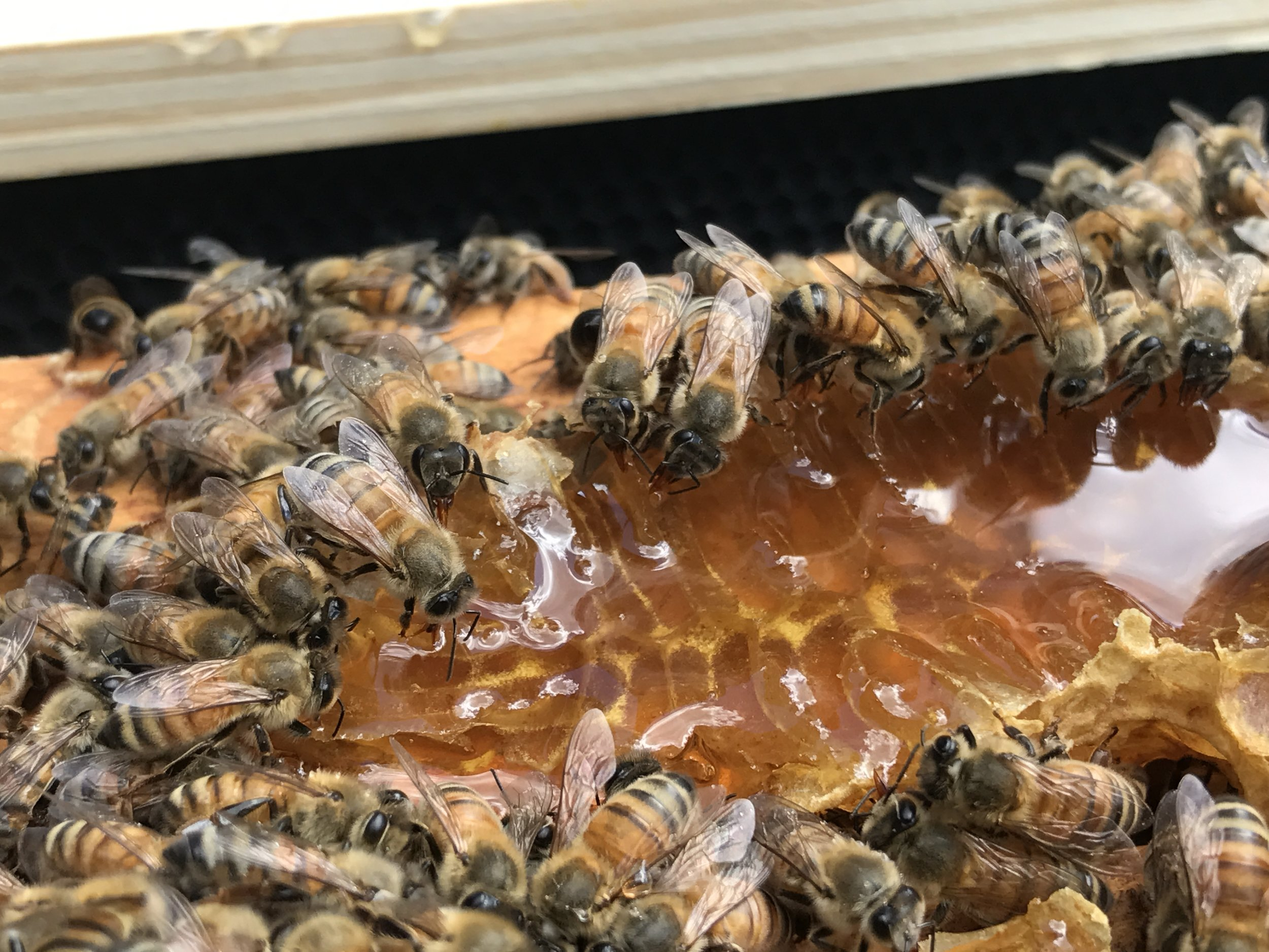
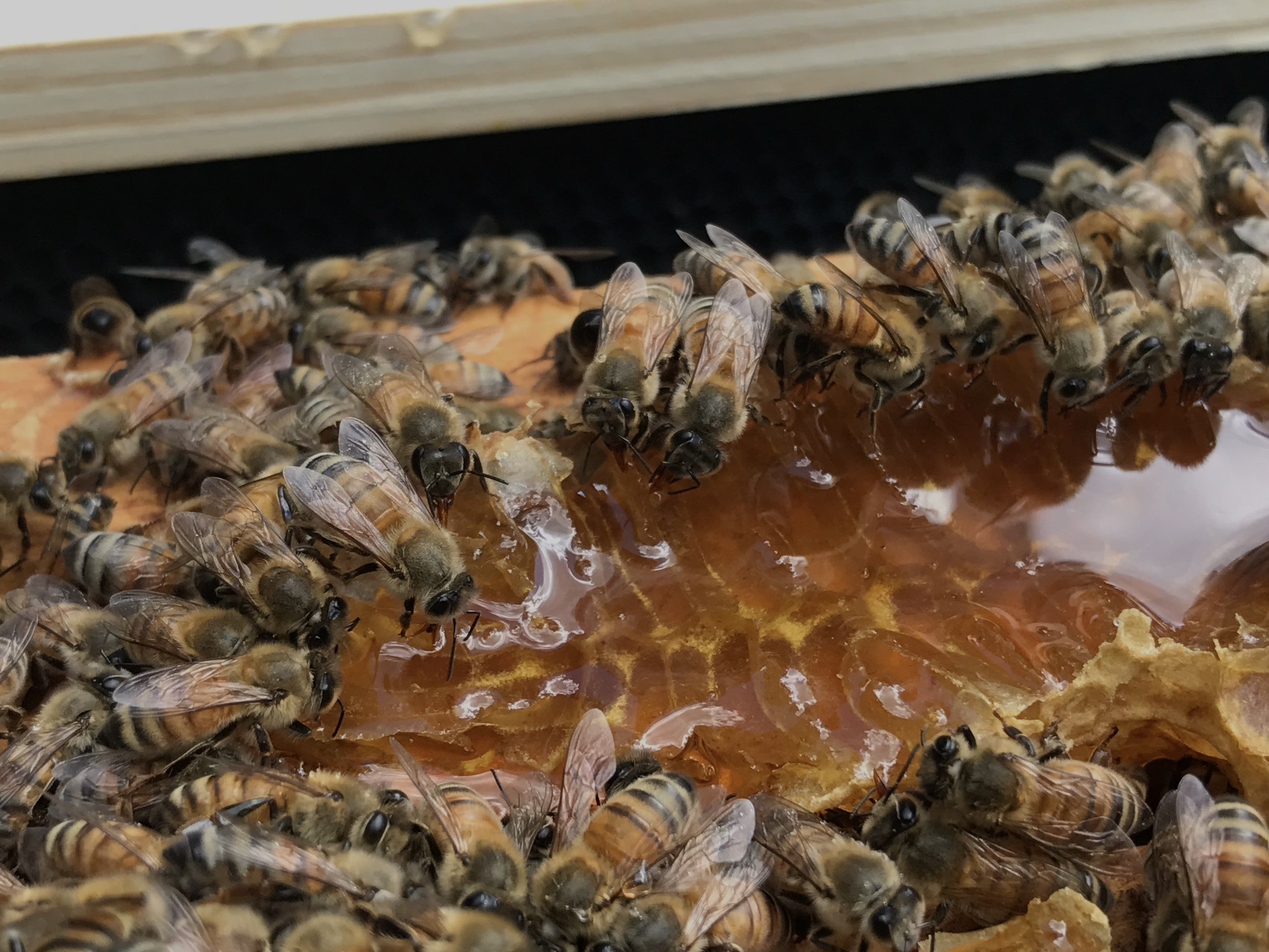
image darkening and some other testing

diff --git a/index.html b/index.html
@@ -68,6 +68,7 @@
 					><label class=qrcode-text-btn>
 						<!--- This is the QR loading to open the camera then process the QR image (input then 'onchange'). In the JS code, there is also the additon of success and error handling, and prompting them with a message when the click the qr code to scan('onclick')--->
 						<input class=""
+							id="qrcode"
 							type=file
 						    accept="image/*"
 						    capture=environment
@@ -75,6 +76,11 @@
 						    onchange="openQRCamera(this);"
 						    tabindex=-1>
 					</label>
+
+					<button onclick="qrCodeTojQuery()">
+						Load
+
+					</button>
 
 				</div>
 				<div class="col-lg-4 col-md-3"> </div>
@@ -133,13 +139,18 @@
 		    };
 		    qrcode.decode(reader.result);
 		  };
-		  
-		  var reader.result
+
+		  //var qrResult = qrcode.decode(reader.result);
 		  reader.readAsDataURL(node.files[0]);
 		}
 		// this tells the user what the purpose of the scanner is. It is used in the html above from the scanner input
 		function showQRIntro() {
 		  return confirm("Use your camera to take a picture of a QR code.");
+		}
+
+		function qrCodeTojQuery(){
+			var qrCodeData = document.getElementById("qrcode").value;
+			window.open("http://localhost:4200/"+qrCodeData, _blank, Specs)
 		}
 	</script>
 

diff --git a/css/index.css b/css/index.css
@@ -25,7 +25,6 @@ body{
 .black-font{
     color: black !important;
 }
-.
 
 .bold{
     font-weight: bold
@@ -166,6 +165,12 @@ body {
 .lgg-logo{
         width: 150px;
         height: 200px;
+}
+
+.darken_image {
+    zoom: 1;
+    filter: alpha(opacity=50);
+    opacity: 0.5;
 }
 
 .navbar-inner {
